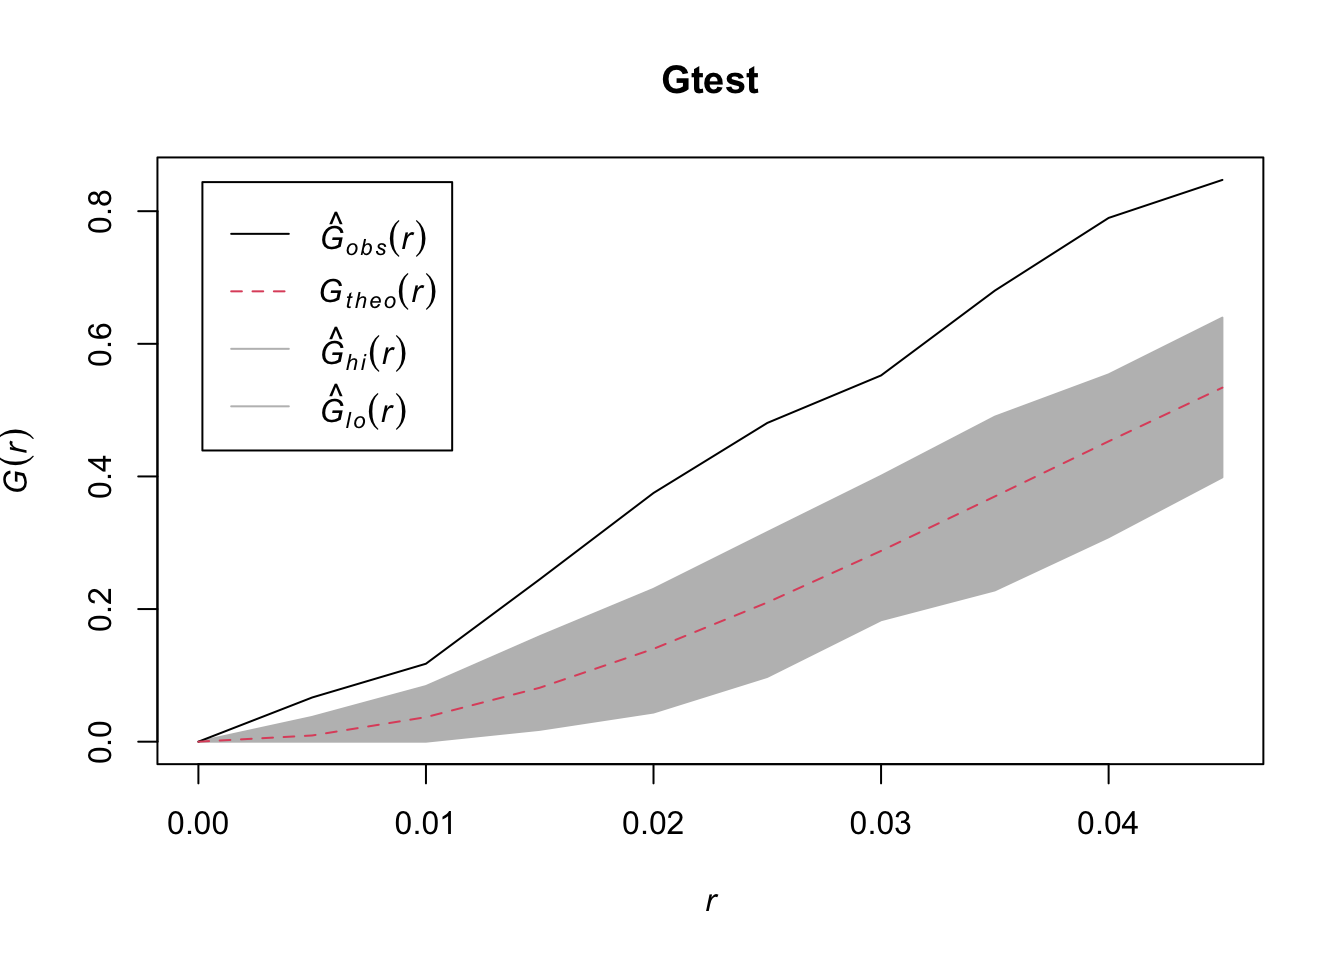
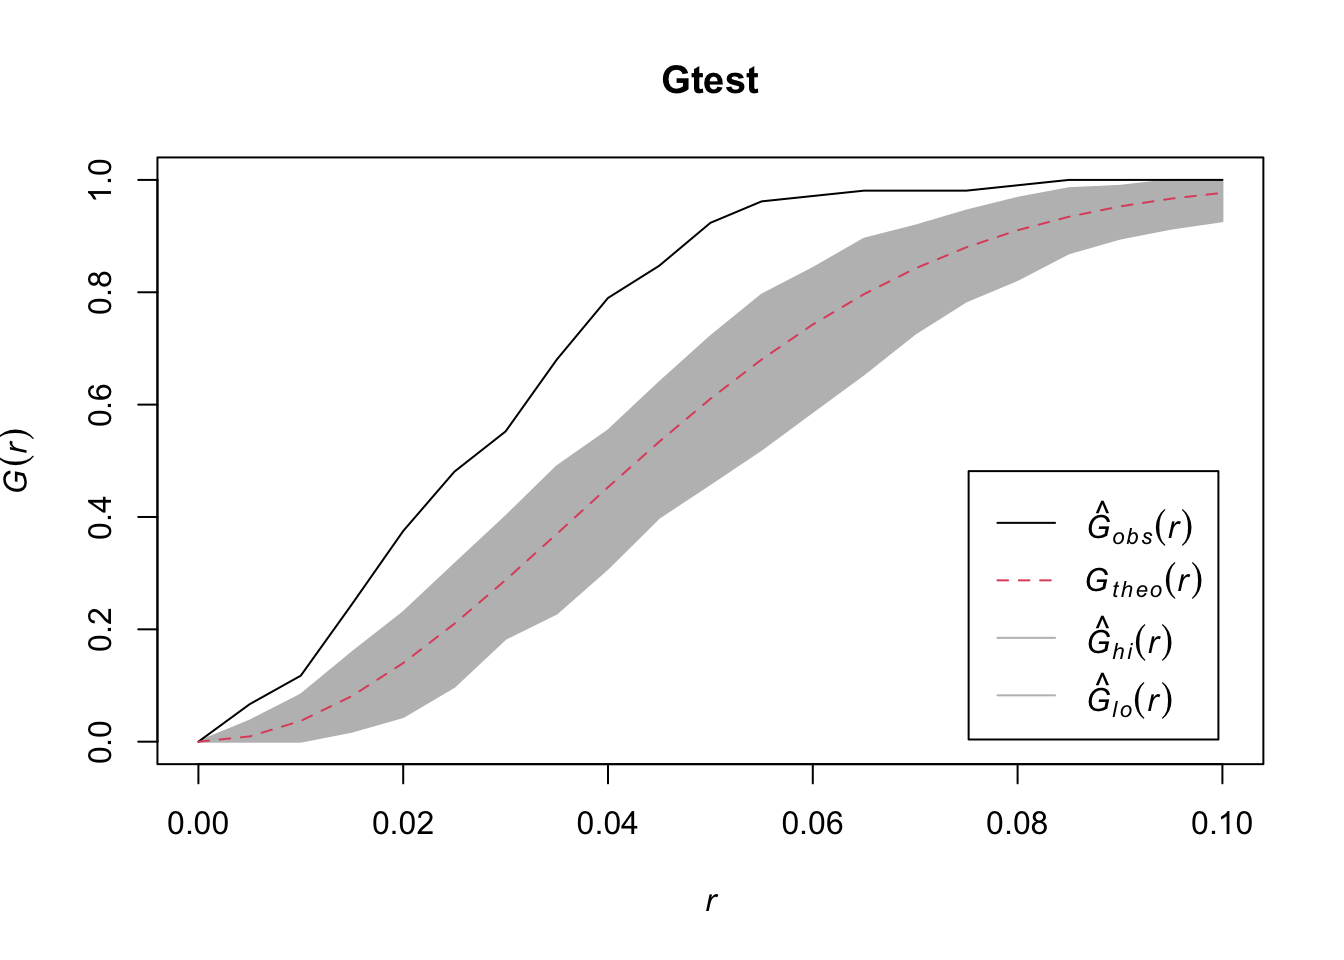
Updated

diff --git a/Solutions.html b/Solutions.html
@@ -408,7 +408,7 @@ rNS = rNeymanScott(kappa=10, expand=0.1,
                    rcluster = nclust, radius=0.1, n=10)
 r=seq(0,1, by=0.005)
 Gtest=envelope(rNS,fun=Gest, r=r, nrank=5, nsim=200)
-plot(Gtest)</code></pre>
+plot(Gtest, xlim = c(0,0.1))</code></pre>
 <p><img src="Solutions_files/figure-html/unnamed-chunk-4-1.png" width="672" /></p>
 <pre><code>## Generating 200 simulations of CSR  ...
 ## 1, 2, 3, 4.6.8.10.12.14.16.18.20.22.24.26.28.30.32.34
@@ -420,6 +420,17 @@ plot(Gtest)</code></pre>
 ## 200.
 ## 
 ## Done.</code></pre>
+<pre class="r"><code>quadrat.test(rNS, nx = 4, ny= 4, alternative = &quot;clustered&quot;, method = &quot;Chisq&quot;)</code></pre>
+<pre><code>## 
+##  Chi-squared test of CSR using quadrat counts
+## 
+## data:  rNS
+## X2 = 134.67, df = 15, p-value &lt; 2.2e-16
+## alternative hypothesis: clustered
+## 
+## Quadrats: 4 by 4 grid of tiles</code></pre>
+<p>Both methods conclude <em>rNS</em> data follow a clustered point
+pattern.</p>
 </div>
 
 
